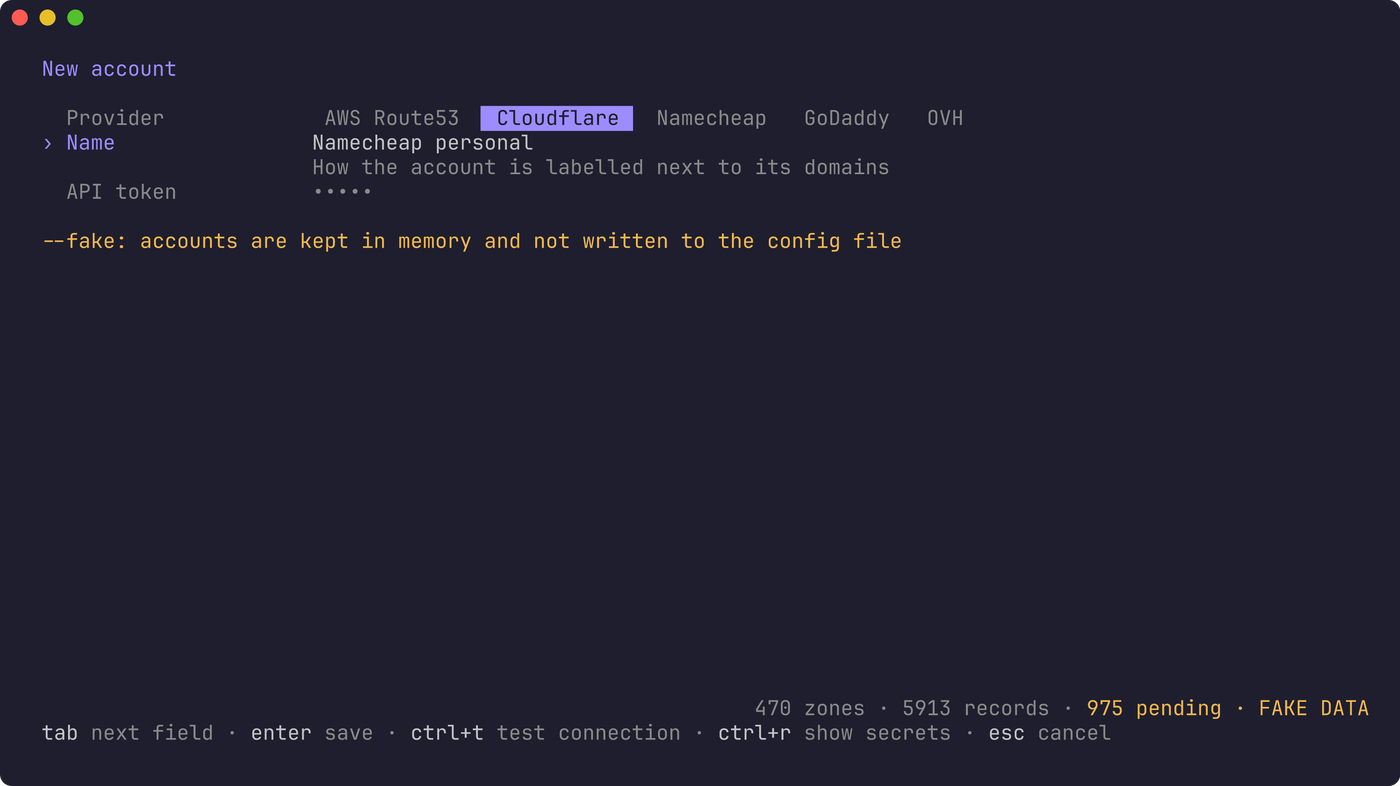
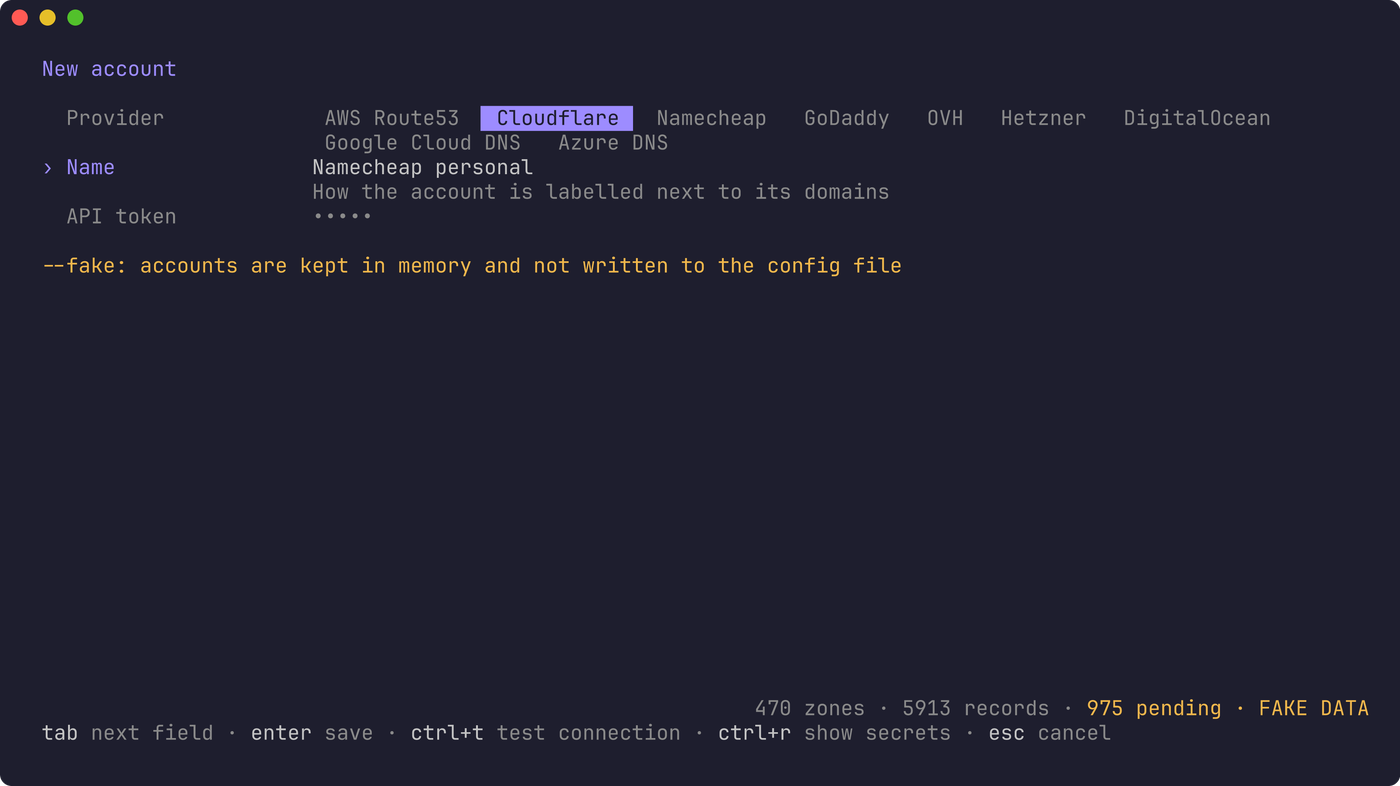
Wrap the provider selector in the account form
With nine providers the choices no longer fit on one line next to the
label; they now wrap, aligned with the field values.

Changed region(s): [[0.0307, 0.1527, 0.645, 0.3664], [0.7986, 0.1221, 0.8907, 0.1832], [0.7064, 0.1221, 0.7679, 0.1527]]

diff --git a/internal/ui/accounts.go b/internal/ui/accounts.go
@@ -11,6 +11,7 @@ import (
 	"github.com/charmbracelet/bubbles/textinput"
 	tea "github.com/charmbracelet/bubbletea"
 	"github.com/charmbracelet/lipgloss"
+	"github.com/charmbracelet/x/ansi"
 
 	"github.com/chrismaximin/dnszoner/internal/config"
 	"github.com/chrismaximin/dnszoner/internal/dns"
@@ -659,19 +660,30 @@ func (m *Model) viewAccountForm() string {
 		}
 	}
 
-	var choices []string
+	// The providers wrap onto more lines, aligned with the field values.
+	indent := strings.Repeat(" ", acctLabelW+4)
+	var lines []string
+	line := ""
 	for i, p := range config.Providers {
+		chip := stMuted.Render(" " + config.ProviderLabel[p] + " ")
 		if i == f.provider {
-			choices = append(choices, stChoice.Render(" "+config.ProviderLabel[p]+" "))
-		} else {
-			choices = append(choices, stMuted.Render(" "+config.ProviderLabel[p]+" "))
+			chip = stChoice.Render(" " + config.ProviderLabel[p] + " ")
 		}
+		if line != "" && ansi.StringWidth(line)+1+ansi.StringWidth(chip) > max(20, m.width-acctLabelW-5) {
+			lines = append(lines, line)
+			line = ""
+		}
+		if line != "" {
+			line += " "
+		}
+		line += chip
 	}
+	lines = append(lines, line)
 	provHint := ""
 	if f.focus == 0 {
 		provHint = "←→ to choose"
 	}
-	row(0, "Provider", strings.Join(choices, " "), provHint)
+	row(0, "Provider", strings.Join(lines, "\n"+indent), provHint)
 	row(1, "Name", f.name.View(), "How the account is labelled next to its domains")
 	for i, fd := range acctFields[f.providerName()] {
 		row(i+2, fd.label, f.inputs[f.providerName()][i].View(), fd.hint)
